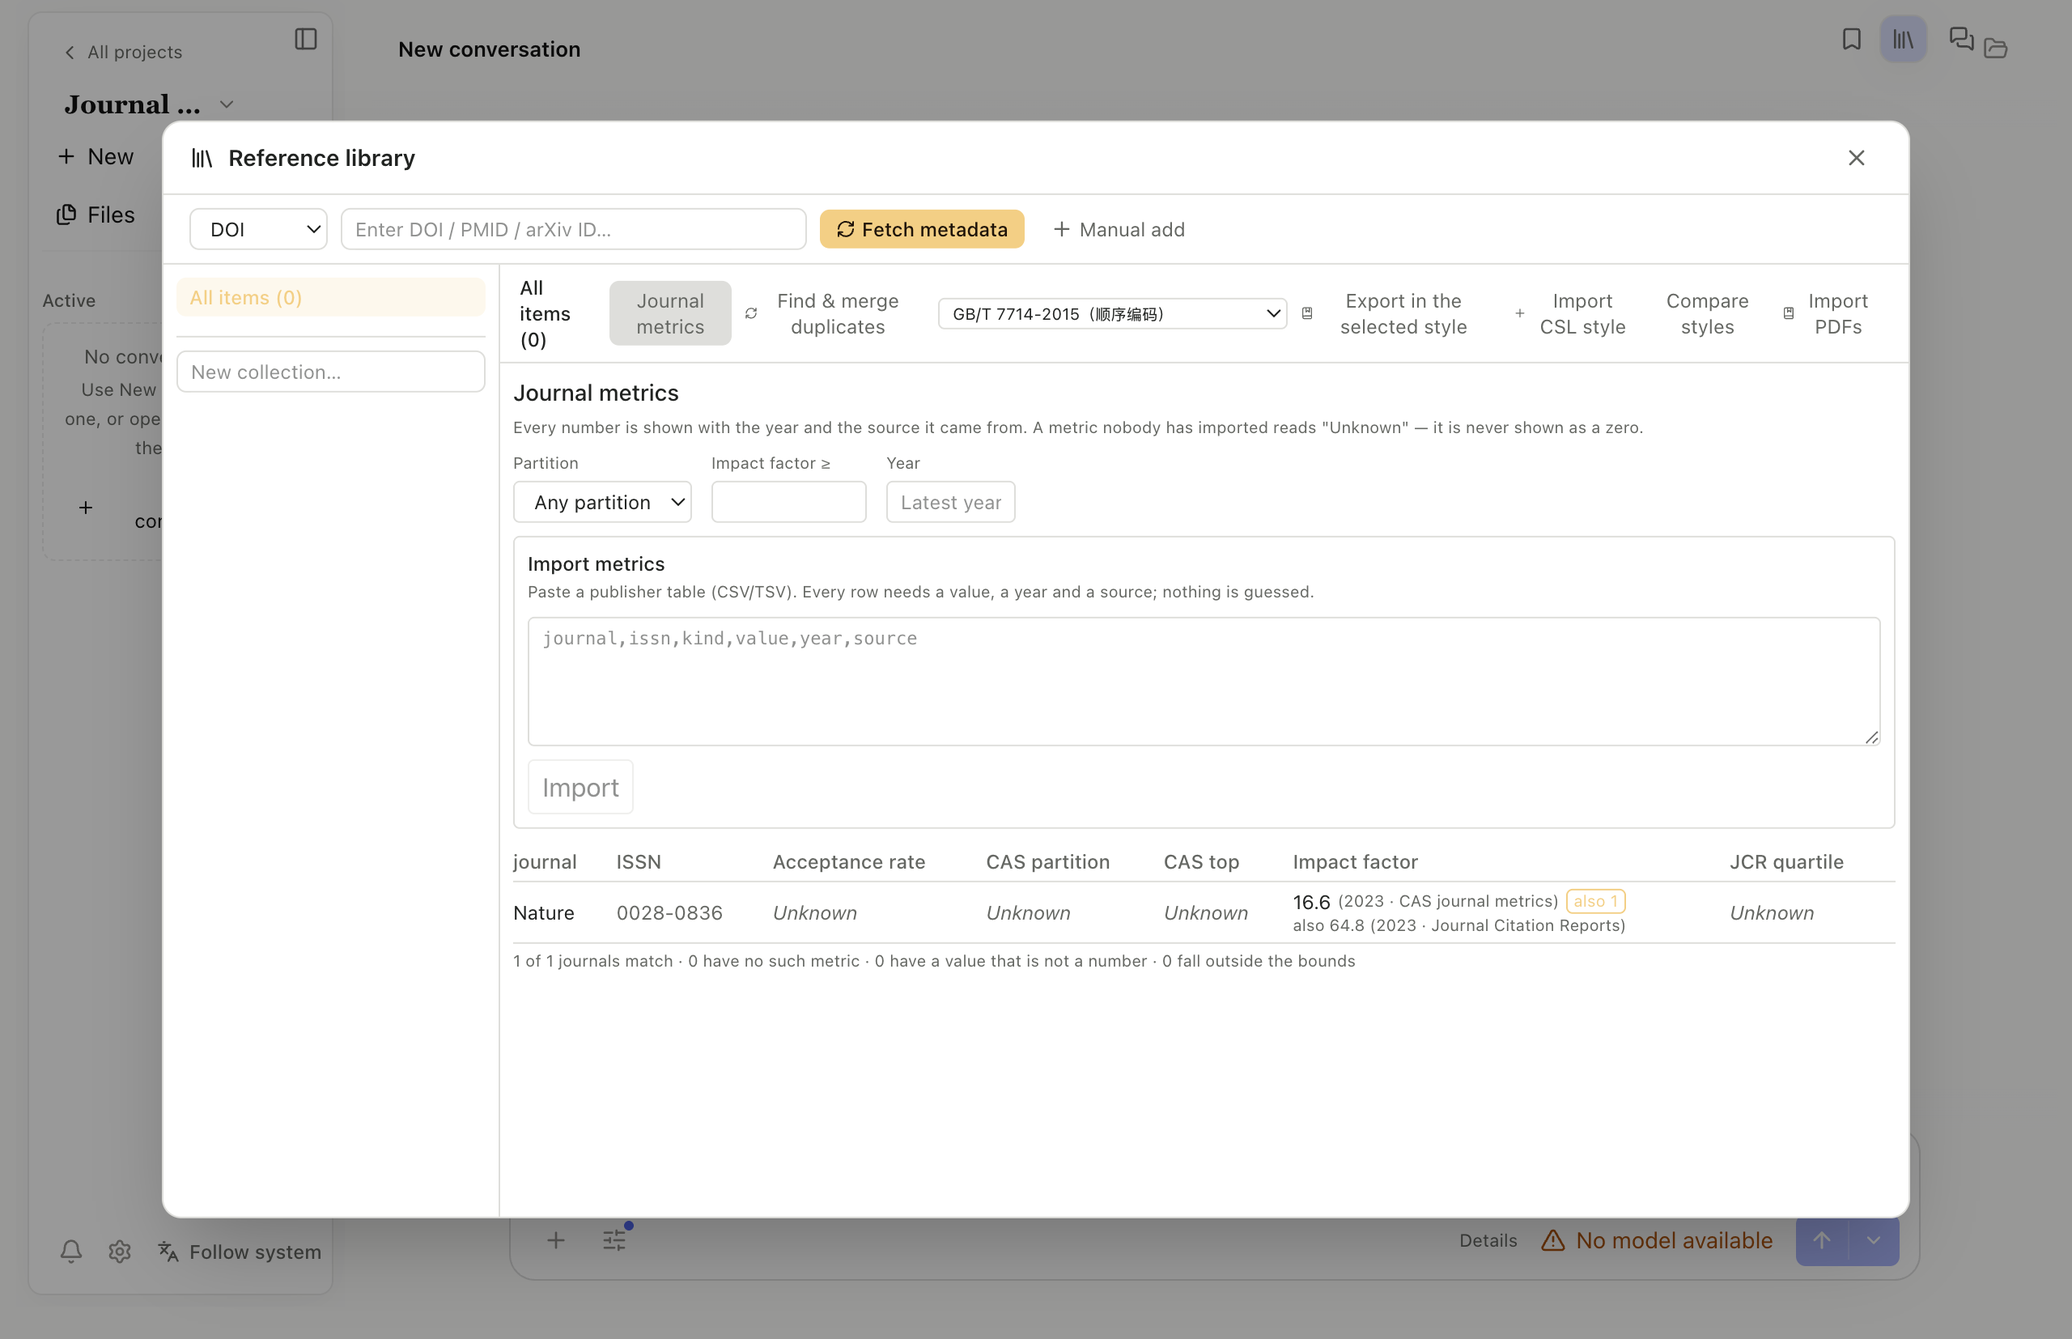
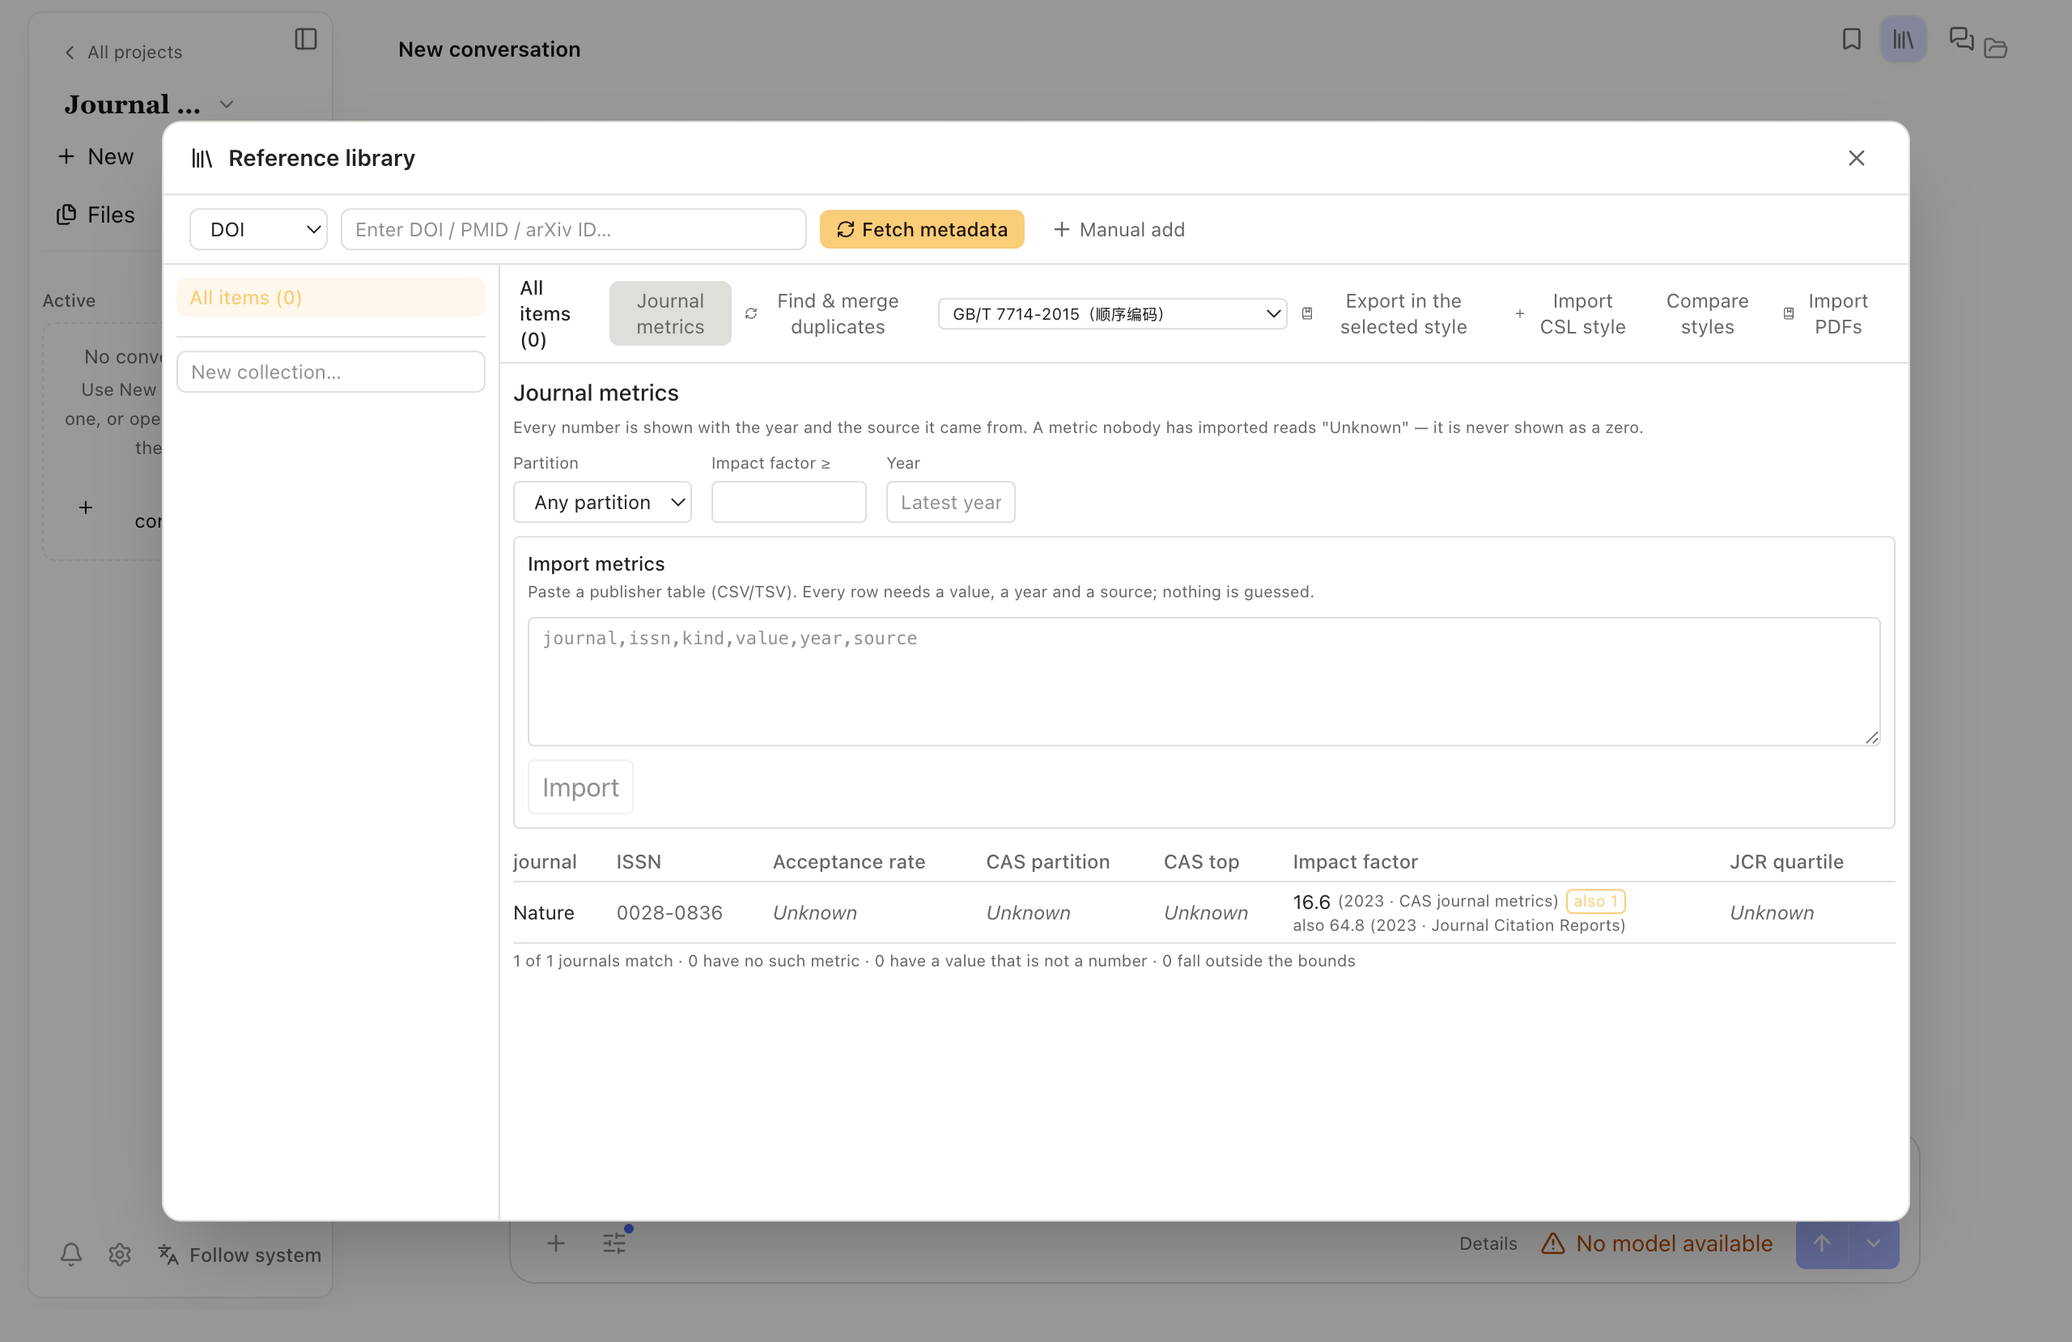
test(IC2/V7): R2-U4 中间态 DOM 读数补齐 + 三种具名拒绝复核后归档；修掉 spec 里一处过时注释
V7（= IC2）。老账把这条写成"确认前中间态 DOM 未取 + 三种具名拒绝只有单测"。本轮分开处理，
**一半补齐、一半归档**——归档那一半不是省事，是因为复核后确认「单窗口按当前 UI 合法到达不了」。

- **补齐：确认前的中间态读数**（同一条认证 spec，同时读 DOM 与库——「按钮亮了」和「真写了东西」
  是两句话）：
  - 只选一侧：`{target:"", label:"Choose a journal…", confirmDisabled:true, reportedResults:0}`
  - 两侧选齐未确认：`{source:"Nature Communications", target:"Nature", confirmDisabled:false,
    reportedResults:0}`
  - **`library before confirm: {journals:2, aliases:0}`** ⇒ 点亮但零写入
  此前这两个状态只有断言、没有读数。

- **归档：三种具名拒绝**（`self-merge` / `alias-conflict` / `source|target-not-found`）。
  归档理由逐条写进证据档 §5：`self-merge` 被 UI 在 store 之前挡住（本轮已读到 `confirmDisabled`
  真值，store 永远见不到该请求）；`alias-conflict` 需要"目标名已是别刊别名"，而别名一旦写成，
  **按该名再导入会解析回原刊、造不出第二个刊**；`source/target-not-found` 需要**第二个行为者**并发删并。
  ⇒ 三条由 jsdom 驱动（`JournalMetricsPanel.render.test.tsx:277/:349/:250`）+ 具名理由，
  从"未取读数"挂账移出。将来若出现第二行为者（另一窗口/CLI 并发合并），才在本档重开。

- **顺带修一处注释漂移**：该 spec 原有注释写着「一个格子里只印一个数字」（V11 之前的旧行为），
  代码已改成并列打印两条 ⇒ 注释与断言一并更正，并补 `mergedRow` 必须同时含 `64.8` 与 `16.6`、
  冲突标记可见。**留着一条与代码相反的注释，比没有注释更坏。**

读数：`npx playwright test e2e/certification/journal-metrics-panel.spec.ts --workers=1` → **4 passed (59.4s)**。
证据：`docs/evidence/2026-10-03-r2-u4-journal-alias-merge.md` §4/§5（就地追加，读者会去那里找）。

diff --git a/e2e/certification/journal-metrics-panel.spec.ts b/e2e/certification/journal-metrics-panel.spec.ts
@@ -349,9 +349,66 @@ test('an explicit merge folds two journals into one row and keeps the old spelli
   await dialog
     .locator('[data-slot="journal-merge-source"]')
     .selectOption({ label: 'Nature Communications' })
-  // Still inert with only one side chosen: the control cannot send a half-formed request.
-  await expect(confirm).toBeDisabled()
+
+  // --- The intermediate state, read rather than assumed: one side chosen, nothing sent. ----------------
+  const halfState = await dialog.evaluate((root) => {
+    const read = (slot: string): { value: string; label: string } => {
+      const select = root.querySelector<HTMLSelectElement>(`[data-slot="${slot}"]`)
+      return {
+        value: select?.value ?? 'missing',
+        label: select?.selectedOptions[0]?.textContent?.trim() ?? 'missing'
+      }
+    }
+    const confirmButton = root.querySelector<HTMLButtonElement>('[data-slot="journal-merge-confirm"]')
+    return {
+      source: read('journal-merge-source'),
+      target: read('journal-merge-target'),
+      confirmDisabled: confirmButton?.disabled ?? null,
+      reportedResults: root.querySelectorAll('[data-slot="journal-merge-result"]').length
+    }
+  })
+  console.log(`[panel-reading] merge intermediate (one side): ${JSON.stringify(halfState)}`)
+  expect(halfState.source.label).toBe('Nature Communications')
+  expect(halfState.target.value).toBe('')
+  expect(halfState.confirmDisabled).toBe(true)
+  expect(halfState.reportedResults).toBe(0)
+
   await dialog.locator('[data-slot="journal-merge-target"]').selectOption({ label: 'Nature' })
+
+  // Both sides chosen, still NOT confirmed: the control is armed, and the library is untouched — the state a
+  // user sits in while deciding. Read together with the store, because "the button lit up" and "something was
+  // written" are different claims.
+  const armedState = await dialog.evaluate((root) => {
+    const read = (slot: string): string =>
+      root.querySelector<HTMLSelectElement>(`[data-slot="${slot}"]`)?.selectedOptions[0]?.textContent?.trim() ??
+      'missing'
+    const confirmButton = root.querySelector<HTMLButtonElement>('[data-slot="journal-merge-confirm"]')
+    return {
+      source: read('journal-merge-source'),
+      target: read('journal-merge-target'),
+      confirmDisabled: confirmButton?.disabled ?? null,
+      reportedResults: root.querySelectorAll('[data-slot="journal-merge-result"]').length
+    }
+  })
+  const libraryBeforeConfirm = await page.evaluate(async () => {
+    const bridge = globalThis as unknown as {
+      api: {
+        references: {
+          listJournalMetrics: () => Promise<{ journals: unknown[]; aliases: unknown[] }>
+        }
+      }
+    }
+    const library = await bridge.api.references.listJournalMetrics()
+    return { journals: library.journals.length, aliases: library.aliases.length }
+  })
+  console.log(`[panel-reading] merge intermediate (armed): ${JSON.stringify(armedState)}`)
+  console.log(`[panel-reading] library before confirm: ${JSON.stringify(libraryBeforeConfirm)}`)
+  expect(armedState.source).toBe('Nature Communications')
+  expect(armedState.target).toBe('Nature')
+  expect(armedState.confirmDisabled).toBe(false)
+  expect(armedState.reportedResults).toBe(0)
+  // Arming is not acting: two journals, still no alias, and no result line yet.
+  expect(libraryBeforeConfirm).toEqual({ journals: 2, aliases: 0 })
   await expect(confirm).toBeEnabled()
 
   const result = dialog.locator('[data-slot="journal-merge-result"]')
@@ -372,11 +429,13 @@ test('an explicit merge folds two journals into one row and keeps the old spelli
     .trim()
   console.log(`[panel-reading] row after merge: ${mergedRow}`)
   expect(mergedRow).toContain('Nature')
-  // One cell, one claim: the 2023 impact factor on screen is the claim fetched last of the two the merge
-  // brought onto this journal. The view never prints two numbers in one cell — the read-back below shows both
-  // claims are kept, and the count line below the table carries how many journals the filter matched.
+  // Two claims for 2023 now live on this journal, and BOTH are printed: the selected one first, the one it
+  // would otherwise hide beside it with its own source (V11/IC1). Before that change this row carried a single
+  // number and this comment said so; the read-back below still shows the store keeps both.
   expect(mergedRow).toContain('16.6')
+  expect(mergedRow).toContain('64.8')
   expect(mergedRow).toContain('Journal Citation Reports')
+  await expect(dialog.locator('[data-testid="journal-metric-conflict"]')).toBeVisible()
   const aliasNote = dialog.locator('[data-slot="journal-alias"]')
   await expect(aliasNote).toBeVisible()
   const aliasText = (await aliasNote.innerText()).replace(/\s+/g, ' ').trim()

diff --git a/docs/plan-2026-10-03-next-queue-and-round-convention.md b/docs/plan-2026-10-03-next-queue-and-round-convention.md
@@ -96,20 +96,15 @@ Build/notarize-mac/publish 全 skipped ⇒ **连发布页都没有**，同一批
 1. ~~**`49b2c83c` 那份 v1.80.0 发布记录需按实际结论更正**~~ ✅ **已完成（会话，`0fabd2e6`）**——
    已按实际结论更正为「已发布」：21 资产、run `37099590863` 全绿、`sourceSha = f2a97d87…`、
    正文 13,535 字节、mac 未签名已披露，并写明首发 `f690b85a` 那次 run 是 failure、已删 tag 重建。
-2. **R2-U4 三种具名拒绝的真机读数**：`self-merge` / 不存在的 id / 别名指向别刊——现在**只有单测**，
-   做法照 `e2e/certification/journal-metrics-panel.spec.ts`（真窗口 + 夹具数据根 + 走界面入口）。
-3. ~~**同日多指标不许静默取一条**~~ ✅ **已交付（会话，v1.81.0 的 V11 / IC1）**：`selectClaimWithAlternatives()` + 面板并列打印 + 冲突徽标；真机读数 `docs/evidence/2026-10-03-journal-metric-conflict.md`（4 passed / 32.9s，**含原发现场景「别名合并」那一条也变成两个值**）。<br>原口径：合并后同一 kind+同年份有两条主张时，视图要么并列显示（各带 source），
-   要么显式标冲突；**不许静默挑一条**。证据：`docs/evidence/2026-10-03-r2-u4-journal-alias-merge.md` §3。
+2. ~~**R2-U4 三种具名拒绝的真机读数**~~ ✅ **已复核并归档（会话，v1.81.0 的 V7）**：结论是这三条**不是"该取未取的读数"，而是"单窗口按当前 UI 合法到达不了的状态"**——`self-merge` 被 UI 在 store 之前挡住（本轮已读到 `confirmDisabled` 真值）；`alias-conflict` 需要"目标名已是别刊别名"，而别名一旦写成，按该名再导入会解析回原刊、造不出第二个刊；`source/target-not-found` 需要**第二个行为者**并发删并。三条现由 jsdom 驱动（`render.test.tsx:277/:349/:250`）+ 具名理由，从"未取"挂账移出。证据 `docs/evidence/2026-10-03-r2-u4-journal-alias-merge.md` §5。
+3. ~~**同日多指标不许静默取一条**~~ ✅ **已交付（会话，v1.81.0 的 V11 / IC1）**：`selectClaimWithAlternatives()` + 面板并列打印 + 冲突徽标；真机读数 `docs/evidence/2026-10-03-journal-metric-conflict.md`（4 passed / 32.9s，**含原发现场景「别名合并」那一条也变成两个值**）。口径：合并后同一 kind+同年份有两条主张时，视图并列显示（各带 source）或显式标冲突；**不许静默挑一条**。
 4. **egress 拦截卡"等满 60 秒"的端到端复现**：修复已完成（到点自动撤卡 + 应答失败不再静默），
    但"真窗口里等满 60 秒"的读数**未取**，做法同第 2 条。
 5. ~~**`--primary-foreground` 对比度实测**~~ ✅ **已实测（会话，v1.81.0 的 V9 / IC4）：判定不达标**。真机读数：`--primary` 画成 `rgb(77,107,254)`、前景 `rgb(248,250,254)`、真实 CTA 16px/400 ⇒ 正文门槛 4.5，**实测 4.144:1**；**且前景色换纯白也只有 4.330:1**（该背景天花板）⇒ 原定「微调前景色」这条修法**不可行**，已改立**拍板项**（加深 `--primary` 到 `oklch(0.56 …)`=4.721:1，或接受并记录）。证据 `docs/evidence/2026-10-03-primary-contrast.md`。
 6. ~~**`acp:state` 渲染器 ack**~~ ✅ **已定位并给出结论（会话，v1.81.0 的 V15）**：结论是**这条旧立案问错了问题**——通道是活的（`acp.onState` 三处订阅），ack 要解决的「渲染器把缺席当回收」已由 `runtime-event-live-set.ts` 的累积语义从另一侧解决；收益（该通道 52KB→15KB/三回合）改写成一条**有守卫的优化项**（守卫=`interrupted-turn-continuation.spec.ts`），不新做 ack 协议。
 7. ~~**`timeoutMs` 含冷启动**~~ ✅ **已定位并给出结论（会话，v1.81.0 的 V10）：已修，且比老账要求更细**。**先更正老账的地址**——那两个文件**没被删，只是搬到了 `src/main/notebook/`**（老账按 `src/main/agents/` 找才误判"已不在树上"）。现址：`arm(budget)` 先按 `budget + startupGraceMs(30s)` 计时，循环回报开始时 `markStarted()` 换成纯语义预算；`executing` 分辨"超预算"与"根本没启动"并给具名原因；单测在 `kernel-executor.test.ts` 的 `describe('TimeoutController')`。
-8. **面板"确认前"中间态的 DOM 读数**（R2-U4 遗留）：选择候选、确认之前那一步的界面状态未取。
-9. **i18n 键控遗留（从本地 gitignored 档 `docs/competitive-tracking/UPDATE-PLAN-2026-09-v025.md` :341/:346 翻出来的，原文标着"下批"）**：
-   专才面（`SpecialistsPanel.tsx` 的空态卡、`Built-in`、Custom 组标题、ZIP 导入子界面拼句、作者编辑器的
-   `Description (optional)` / `Instructions`）+ **连接器导入** + **技能上传×3** —— 按「新 UI 文案必须 9 语言、zh≠en」
-   同一口径补齐；测试里断言 EN 文本的（如 `SpecialistsPanel.render.test`）要同步查。
+8. ~~**面板"确认前"中间态的 DOM 读数**（R2-U4 遗留）~~ ✅ **已取（会话，v1.81.0 的 V7）**：「只选一侧」`{target:"", label:"Choose a journal…", confirmDisabled:true, reportedResults:0}`、「两侧选齐未确认」`{source:"Nature Communications", target:"Nature", confirmDisabled:false, reportedResults:0}`、**`library before confirm: {journals:2, aliases:0}`** ⇒ 点亮 ≠ 写入。同批修掉 spec 里「一个格子只印一个数字」的过时注释。读数见 `docs/evidence/2026-10-03-r2-u4-journal-alias-merge.md` §4。
+9. ~~**i18n 键控遗留**~~ ✅ **已交付（会话，v1.81.0 的 V14a/V14b，IC5 全闭）**：专才面板（`Built-in · Version`、`Full access`/`Selected capabilities`、`Up to …`、3 条删除失败文案）、专才编辑器 `Icon`/`Color`、技能上传 `Drop to upload`、存储迁移弹窗与存储面板全部改走 `t()`；另扫出并修掉 `SpecialistDeleteDetail.tsx` 同款三元式。新增 26 键 × 9 语（各 3528 键、覆盖率 100%、zh ≠ en）；断言 EN 文本的既有渲染测试未受影响（en 值逐字未变）。
    ⚠ 这条只存在于**那份永不推送的本地档**里：不并进本队列就会被忘掉。
 
 ### B. 大件（每件需要多轮；排在 A 之后，单独立项推进）

diff --git a/docs/evidence/2026-10-03-r2-u4-journal-alias-merge.md b/docs/evidence/2026-10-03-r2-u4-journal-alias-merge.md
@@ -68,3 +68,32 @@
 - **`self-merge` / 不存在 id / 别名指向别刊** 三种具名拒绝的**真机**读数：计划 §3 要求逐条取，本轮只跑了
   上表这一条合并路径；三种拒绝目前**只有单测覆盖**（`journal-merge.test.ts` 4 例），真机未取，立案。
 - **面板级"确认前"交互读数**（选择候选时的中间态）：本轮读的是合并前后的表格与结果文案，选择过程的 DOM 未取。
+  - **后续（2026-10-03 会话补齐，v1.81.0 的 V7）**：**已取到**。同一条认证 spec 里显式读了两步中间态的 DOM
+    原文，并**同时读库**（「按钮亮了」与「真写了东西」是两句话）：
+    ```
+    merge intermediate (one side): {"source":{"value":"cmus98wv80003wfwypn39xogj","label":"Nature Communications"},
+                                    "target":{"value":"","label":"Choose a journal…"},
+                                    "confirmDisabled":true,"reportedResults":0}
+    merge intermediate (armed):    {"source":"Nature Communications","target":"Nature",
+                                    "confirmDisabled":false,"reportedResults":0}
+    library before confirm:        {"journals":2,"aliases":0}
+    ```
+    ⇒ 只选一侧时确认键**禁用**且未发请求；两侧选齐后**点亮但零写入**（库仍是 2 刊 0 别名、无结果行）——
+    这正是"用户在犹豫"那一刻的状态，此前只有断言没有读数。
+  - 顺带修掉一处**注释漂移**：该 spec 原有一行注释写着「一个格子里只印一个数字」（V11 之前的旧行为），
+    代码已改成并列打印两条，注释与断言一并更正，并补 `mergedRow` 必须同时含 `64.8` 与 `16.6`、
+    冲突标记可见。
+
+## 五、三种具名拒绝的真机读数：**复核后归档**（2026-10-03 会话，v1.81.0 的 V7）
+
+老账把这三种拒绝写成"真机未取、立案"。本轮**复核了这个理由是否成立**，结论是**该理由成立，应当归档而不是继续挂着**：
+
+| 拒绝 | 为什么**不能**从一个窗口诚实地造出来 | 现覆盖 |
+| --- | --- | --- |
+| `self-merge` | **UI 在 store 之前就挡住了**：源与目标同刊时确认键 `disabled`（本轮已读到 `confirmDisabled` 的真值），store 永远看不到这个请求 ⇒ 从窗口"驱动"它只能靠绕过界面，那就不是用户路径的读数 | jsdom：`JournalMetricsPanel.render.test.tsx:277`「refuses to merge a journal into itself, and never calls the store that way」 |
+| `alias-conflict` | 需要"目标刊的名字已经是另一个刊的别名"。而别名是合并写入的，一旦写成，**按该名字再导入不会再造出一个新刊**（会被别名解析回原刊）⇒ 单窗口无合法路径造出该状态 | jsdom：`:349`「prints a named refusal together with the store own sentence」（含 `already an alias of journal j-third`） |
+| `source-not-found` / `target-not-found` | 需要**第二个行为者**：在选好候选与确认之间，那本刊被并发删掉/合并掉 | jsdom：`:250`「stays inert once the journal it merged away is gone, and still prints the report」 |
+
+**判定**：这三条**不是"该取未取的读数"，而是"按当前 UI 不可能从单窗口合法到达的状态"**。
+按本项目口径（能取真机读数就取，取不到就具名立案），此处**具名结论 = 由 jsdom 驱动 + 理由已复核**，
+从"未取读数"的挂账中移出。若将来出现第二行为者（另一个窗口/CLI 并发合并），才需要补真机读数并在本档重开。
